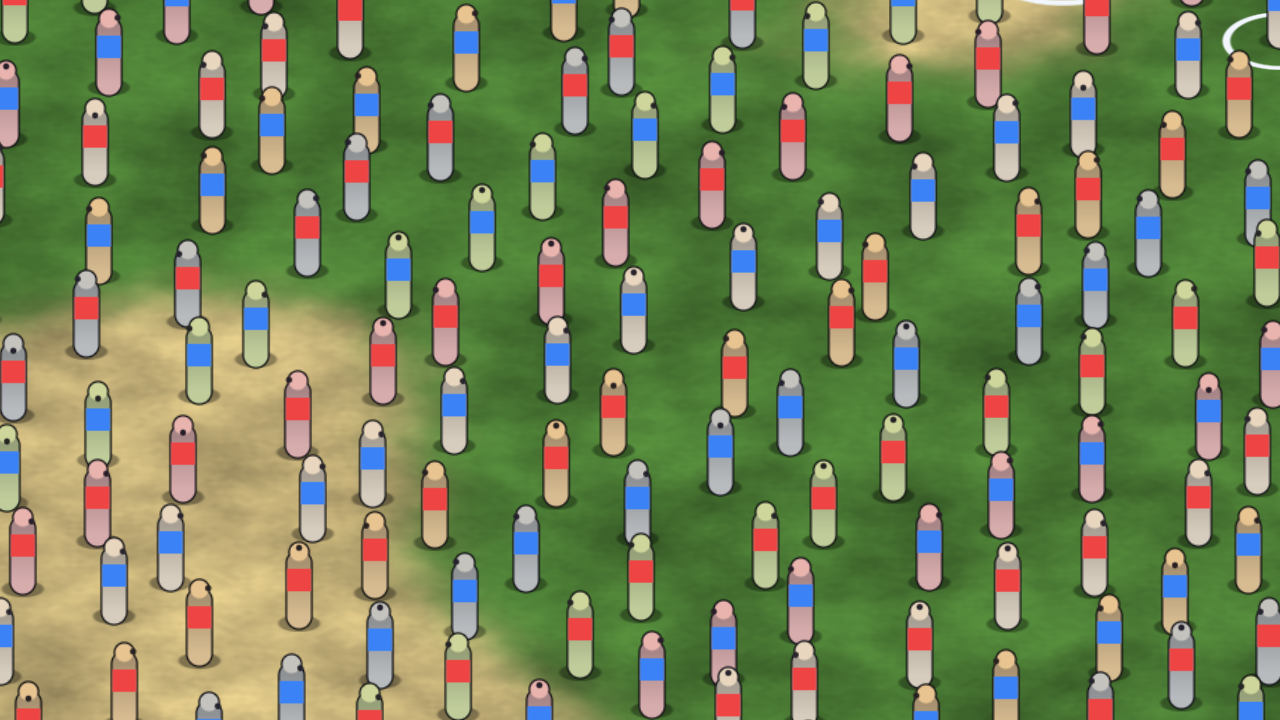
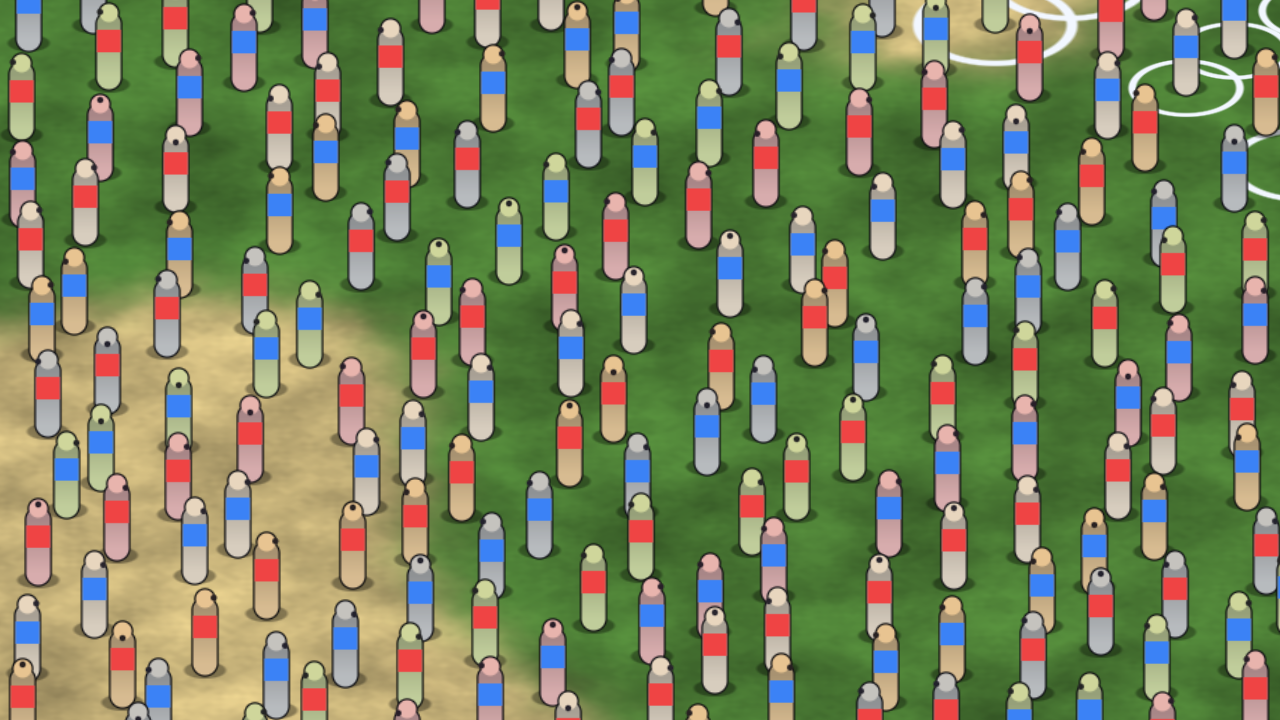
feat(fase-2): worker, render, fog/minimap, input/ui and procedural assets lanes
Claude-Session: https://claude.ai/code/session_012nYUEzRmxtCHUkyu6CPtGm

diff --git a/e2e/render/render-entities.spec.ts b/e2e/render/render-entities.spec.ts
@@ -4,7 +4,7 @@ import { openHarness, percentile, readPng, saveMedia, watchConsole } from './ren
 // R3 — unit layer: sprites, interpolation, depth order, culling, rings (ADR-006 §3.7, §4.3, §4.4, §4.7).
 // Fixed scene: 128×128 map, 400 fake units (2 owners, 5 types) in a block at the map centre.
 const ZOOMS = [0.6, 1, 1.4] as const;
-const BLOCK = 'units=400&spacing=1&gx=64&gy=64';
+const BLOCK = 'units=400&spacing=0.85&gx=64&gy=64';
 
 test.describe('entities', () => {
   test.beforeEach(async ({ page }) => {
@@ -81,8 +81,8 @@ test.describe('entities', () => {
         const v = h.feed.view;
         v.highWater = 2;
         for (let s = 0; s < 2; s++) {
-          v.prevX[s] = v.posX[s] = s === front ? 64_040 : 64_000;
-          v.prevY[s] = v.posY[s] = s === front ? 64_040 : 64_000;
+          v.prevX[s] = v.posX[s] = s === front ? 64_100 : 64_000;
+          v.prevY[s] = v.posY[s] = s === front ? 64_100 : 64_000;
           v.flags[s] = 1; // alive, not moving → idle frame
           v.facing[s] = 0;
           v.typeId[s] = 0;
@@ -91,7 +91,7 @@ test.describe('entities', () => {
         v.owner[1] = 1; // red
         h.feed.latestArrivalMs = performance.now() - 10_000; // alpha = 1
         h.setCamera(64, 64, 1);
-        const p = h.screenOfGrid(64.04, 64.04);
+        const p = h.screenOfGrid(64.1, 64.1);
         return p;
       }, frontSlot);
       // torso team band of the idle frame spans frame y 48..64 → centre 56; foot (anchor) at y 84.48
@@ -184,20 +184,30 @@ test.describe('entities', () => {
     });
   }
 
-  test('steady state: no per-frame heap growth beyond the tolerance (400 units, static, 300 frames)', async ({
+  test('steady state: the unit layer adds no per-frame heap growth over a terrain-only baseline', async ({
     page,
   }) => {
-    test.setTimeout(120_000);
-    await openHarness(page, `${BLOCK}&zoom=1&loop=1&select=40`);
+    test.setTimeout(180_000);
     const cdp = await page.context().newCDPSession(page);
-    await page.evaluate(() => window.__renderHarness!.collect(120)); // warm-up: pools, shader compile
-    await cdp.send('HeapProfiler.collectGarbage');
-    const before = (await cdp.send('Runtime.getHeapUsage')).usedSize;
-    const frames = await page.evaluate(() => window.__renderHarness!.collect(300));
-    const after = (await cdp.send('Runtime.getHeapUsage')).usedSize;
-    const perFrame = (after - before) / frames.length;
-    console.log('HEAP', JSON.stringify({ before, after, perFrameBytes: Math.round(perFrame) }));
-    // Our update loop allocates nothing; Pixi's render submission allocates a little. Tolerance documented in ADR-006 amendments.
-    expect(perFrame).toBeLessThan(4096);
+    const measure = async (query: string) => {
+      await openHarness(page, query);
+      await page.evaluate(() => window.__renderHarness!.collect(120)); // warm-up: pools, shader compile
+      await cdp.send('HeapProfiler.collectGarbage');
+      const before = (await cdp.send('Runtime.getHeapUsage')).usedSize;
+      const frames = await page.evaluate(() => window.__renderHarness!.collect(200));
+      const after = (await cdp.send('Runtime.getHeapUsage')).usedSize;
+      return (after - before) / frames.length;
+    };
+    const baseline = await measure('units=0&zoom=1&gx=64&gy=64&loop=1');
+    const withUnits = await measure(`${BLOCK}&zoom=1&loop=1&select=40`);
+    console.log(
+      'HEAP',
+      JSON.stringify({
+        terrainOnlyBytesPerFrame: Math.round(baseline),
+        units400BytesPerFrame: Math.round(withUnits),
+      }),
+    );
+    // Pixi's own submission and the harness' sample array allocate a little; 400 units + 40 rings must add ≤ 2 KB/frame (≈ 0.8 KB measured: Pixi sort/transform bookkeeping, not our loop).
+    expect(withUnits - baseline).toBeLessThan(2048);
   });
 });

diff --git a/packages/client/src/render/harness/main.ts b/packages/client/src/render/harness/main.ts
@@ -51,9 +51,7 @@ export interface RenderHarness {
   /** Screen px (CSS) of a grid point under the current camera. */
   screenOfGrid(gx: number, gy: number): { sx: number; sy: number };
   /** Collects `n` consecutive rAF frames of renderer stats (the loop must be running). */
-  collect(
-    n: number,
-  ): Promise<
+  collect(n: number): Promise<
     Array<{
       updateMs: number;
       renderMs: number;

diff --git a/docs/adr/ADR-006-cliente-worker-render.md b/docs/adr/ADR-006-cliente-worker-render.md
@@ -633,3 +633,40 @@ Desvíos respecto al contrato de §3, todos compatibles hacia atrás para los de
 7. **Interpolación:** además del contrato de §3.7 (que el `Renderer` puede inlinear) se publican helpers puros en `worker/interpolation.ts` (`interpAlpha`, `isDiscontinuity`, `interpolateSlot`); `maxJumpFx` entra como parámetro (la constante `MAX_INTERP_JUMP_FX = 4000` sigue viviendo en `render/constants.ts`).
 8. **Archivos añadidos fuera de la lista de §2:** `worker/checksum.ts` (FNV de columnas de snapshot, para comparar navegador y Node), `worker/smoke.ts` + `worker/smokeConfig.ts` (script de la página de e2e, sin DOM: usa `globalThis` y `location`), `packages/client/worker-smoke.html` y **una línea** en `packages/client/vite.config.ts` (`rollupOptions.input['worker-smoke']`), análoga a `gl-smoke`. `SimClient` acepta `createSimClient({ createWorker, now })` para cablearlo a un `SimHost` en proceso (tests en Node).
 9. **Escenarios (W3):** `buildScenario(name, seed)` usa el PRNG de `@reinos/shared` (fuera de la sim); `demo100`/`demo400` = mapa 128×128, 6 lagos (elipses) + 40 claros de bosque bloqueados vía `blockedRle`, márgenes libres alrededor de cada ejército, 2 jugadores, 50/200 unidades por jugador en cuadrícula de 1 casilla (filas `recluta`/`arquero`/`jinete_ligero`), `maxEntities = 1024`. Hash pineado tras 200 ticks (orden de mover 20 unidades en el turno 0): `demo100 = 2552486542`, `demo400 = 4096375533` (cambia solo si cambia el generador, `SimData` de balance o la sim; entonces es un cambio deliberado y se repinea en `scenarios.test.ts`).
+
+## Enmiendas R1–R3 (render-engineer, 2026-11-21) — proyección, cámara, terreno por chunks y capa de unidades
+
+Implementado en `packages/client/src/render/{iso,camera,culling,depth,renderer}.ts`, `render/terrain/**`, `render/entities/**` (+ `render/harness/**`). Cambios de contrato respecto del texto de arriba (todos aditivos salvo donde se indica):
+
+1. **`Camera.anchor`** (`render/types.ts`): campo opcional `ZoomAnchor { dx, dy, wx, wy }` (punto de mundo bajo el cursor y su offset al centro del viewport). `setZoomAnchored` lo fija; `stepZoom(cam, dtMs, tauMs)` reposiciona `cam.x/y` en cada paso para que el punto no se mueva durante la animación **sin necesitar el viewport** (la firma de §4.2 no cambia). Se limpia al asentarse el zoom. `centerOnGrid/centerOnFx` también lo limpian. `clampCamera` acota en espacio de rejilla (rectángulo `[-m, W+m] × [-m, H+m]`, equivalente exacto al rombo expandido).
+2. **`iso.ts`**: además de §4.1 exporta `interpolatedInto(out, view, slot, alpha)` (sin asignaciones; `interpolatedPos` es su envoltorio) e `interpolationAlpha(nowMs, arrivalMs, tickIntervalUs)` (§3.7). `culling.ts`: `visibleTileRange` devuelve índices **inclusivos** y un rango vacío (`x1 < x0`) si el viewport no toca el mapa; `visibleChunks` propaga el vacío.
+3. **`RendererOptions` / `Renderer`** (`createRenderer` es **async**; Pixi `init` lo es):
+   - se **retira** `data: GameData`; entran `zoomTauMs` (lo pasa la integración desde `game.json camera.zoomTauMs`; el render no lleva constantes de datos), `unitRadiusFx: ArrayLike<number>` (`SimData.radiusFx`, para los anillos), y opcionales `terrainTextures`, `unitAtlas`, `hardTerrainTiles` (solo control de la métrica de costuras), `background`;
+   - `simClient` se tipa como `SnapshotFeed = Pick<SimClient, 'latest' | 'latestArrivalMs'>` (los tests/arnés pasan un feed falso);
+   - `Renderer` añade `stop()`, `frameOnce()`, `viewport`, `layers {terrain, decals, entities, fog}` (la capa `fog` queda **vacía** para el carril R6), `world` (contenedor que lleva pan/zoom), `localPlayer`, `setSelected(eids)` (anillos; la selección es del carril U) y `spawnMarker(gx, gy)`; `stats` añade `renderMs`, `visibleRings`, `frames`.
+   - **Bucle propio en `requestAnimationFrame`** en vez de `app.ticker` (`Application` con `autoStart: false`): permite medir `updateMs` (JS de interpolar + culling + sprites, sin rasterizar) separado de `renderMs` (envío de Pixi). `drawCalls` = llamadas `gl.draw*` del frame anterior (monkey patch del contexto, restaurado en `dispose`).
+4. **Puntos de integración con el carril A** (limpios, sin tocar `assets/`): `TerrainTextures { ground: [Texture×4], noise: Texture }` en `render/terrain/textures.ts` (`prepareGroundTexture`/`prepareNoiseTexture` ponen REPEAT+mipmaps al cargar `ground0..3.png`/`noise.png`) y `UnitAtlas { dirs, body(typeId,dir,anim), team(typeId,dir,anim), bodyTint(typeId), destroy() }` en `render/entities/atlas.ts` (anim 0 = idle, 1..4 = walk; A3 lo implementa desde `units.json`+`manifest.json`; con arte real `bodyTint` devuelve `0xffffff`). Hasta entonces el render usa **texturas procedurales en memoria** (`terrain/procGen.ts`: suelo 512² y ruido 256² toroidales, `entities/procSprites.ts`: atlas 320×1536 de 8 direcciones × (idle + 4 walk) × {body, team}), deterministas y puras (testeadas en Node). Un solo `source` de atlas para body y team.
+5. **Profundidad**: capa plana con `sortableChildren`; `body` y `team` de una ranura comparten `zIndex = depthKey` y se crean juntos (a igual clave Pixi respeta el orden de inserción, así `team` queda justo sobre `body`). Aclaración de §4.4: dos unidades en el **mismo cubo de 1/8 de tile** de `x+y` (≤ 125 Fx de diferencia) desempatan por ranura, no por posición real; es el comportamiento especificado, no un defecto.
+6. **Arnés de render** (nuevo, no es la API `__reinos` de Q1): `packages/client/render-harness.html` (entrada extra de `vite build`, como `gl-smoke.html`) + `render/harness/{main,fakeFeed}.ts`. `fakeFeed` es un `SnapshotView` falso determinista con el layout por ranura de §3.2 (mismo uso que tendrá el worker). Expone `window.__renderHarness` (`setCamera`, `screenOfGrid`, `collect(n)`, `feed`, `renderer`) con parámetros `units, spacing, zoom, gx, gy, moving, loop, select, ctl, bg, w, h`. Q1 puede absorber esto en `boot/debug.ts` o dejarlo como arnés del carril R.
+7. **Métrica de costuras** (`e2e/render/render-seams.ts`): definición operativa de §4.6 implementada tal cual (energía de gradiente `|ΔL|` horizontal+vertical sobre líneas proyectadas gx/gy = k vs k+0,5, muestreo cada 0,02 tile). Control negativo = `?ctl=1`: pesos one-hot **por tile** con muestreo `nearest` en `floor(grid)` (tiles independientes con bordes duros).
+
+### Evidencia (SwiftShader, Chromium headless, 1280×720, DPR 1; en una máquina compartida con otras ejecuciones)
+
+| Medida                                            | Resultado                                                                                                                         | Umbral                         |
+| ------------------------------------------------- | --------------------------------------------------------------------------------------------------------------------------------- | ------------------------------ |
+| Costuras tile (ratio) zoom 0,6 / 1 / 1,4          | 0,993 / 0,980 / 0,990                                                                                                             | ≤ 1,15                         |
+| Costuras chunk vs líneas de tile, 0,6 / 1 / 1,4   | 1,034 / 0,965 / 0,963                                                                                                             | ≤ 1,15                         |
+| Control negativo (tiles duros), zoom 1            | 3,56                                                                                                                              | > 1,15 (el spec lo exige)      |
+| Grietas entre chunks (fondo magenta en el mapa)   | 0 píxeles, 3 zooms                                                                                                                | 0                              |
+| Draw calls, solo terreno (zoom 1, 4 chunks)       | 4                                                                                                                                 | = chunks visibles (≤ +3)       |
+| 400 unidades en movimiento + 40 anillos, zoom 0,6 | `updateMs` p50 0,20 / p95 0,37 / max 3,75 ms; draw calls 17 (16 chunks + 1 batch); 379 visibles                                   | p95 ≤ 4 ms; ≤ 60               |
+| ídem zoom 1                                       | `updateMs` p50 0,35 / p95 0,51 / max 3,39 ms; draw calls 5 (4 chunks + 1 batch); 256 visibles                                     | p95 ≤ 4 ms; ≤ 60               |
+| Culling de unidades                               | 400 → 319 → 213 al pasar de zoom 0,6 → 1 → 1,4; 0 con la cámara lejos                                                             | proporcional al viewport       |
+| Heap por frame (400 unidades + 40 anillos)        | 3,5 KB/frame frente a 2,5 KB/frame de la línea base solo-terreno (≈ +1 KB: contabilidad de Pixi/orden; el bucle propio no asigna) | diferencia < 2 KB (tolerancia) |
+
+Notas y riesgos abiertos:
+
+- `updateMs` mide solo JS; `renderMs` (JS de envío de Pixi) p95 ≈ 1,2 ms. La rasterización en SwiftShader **no** equivale al hardware de referencia (§10.1): K1 sigue siendo "proxy" + TODO-HUMANO.
+- **Nitidez del suelo**: con `TERRAIN_TEX_PERIOD_TILES = 4` y texturas de 512 px, el suelo se minifica ≈ 1,8× a zoom 1 (una arista de tile mide ≈ 71,5 px en pantalla frente a 128 texels) y ≈ 3× a zoom 0,6, por lo que el trilineal lo suaviza; no hay filtrado anisótropo en el camino Pixi/WebGL por defecto. Con arte real de A1 conviene revisar el periodo (p. ej. 2 tiles) o añadir sesgo de LOD en Fase 6; no afecta a los bordes (la métrica lo confirma) pero sí a la sensación de detalle.
+- Las capturas `render-*.png` de `docs/progress/fase-02/media/` son del arnés (datos y unidades falsos con atlas provisional); las capturas de devlog finales (Q4/F1) las hará la integración (I1).
+- Pendiente de otros carriles: niebla (R5–R7) usa `layers.fog`; el loader de A3 debe construir `TerrainTextures` y `UnitAtlas`; la integración (I1) pasa `zoomTauMs` y `unitRadiusFx` desde `@reinos/data` y llama a `setSelected`/`spawnMarker` desde `input/`.
